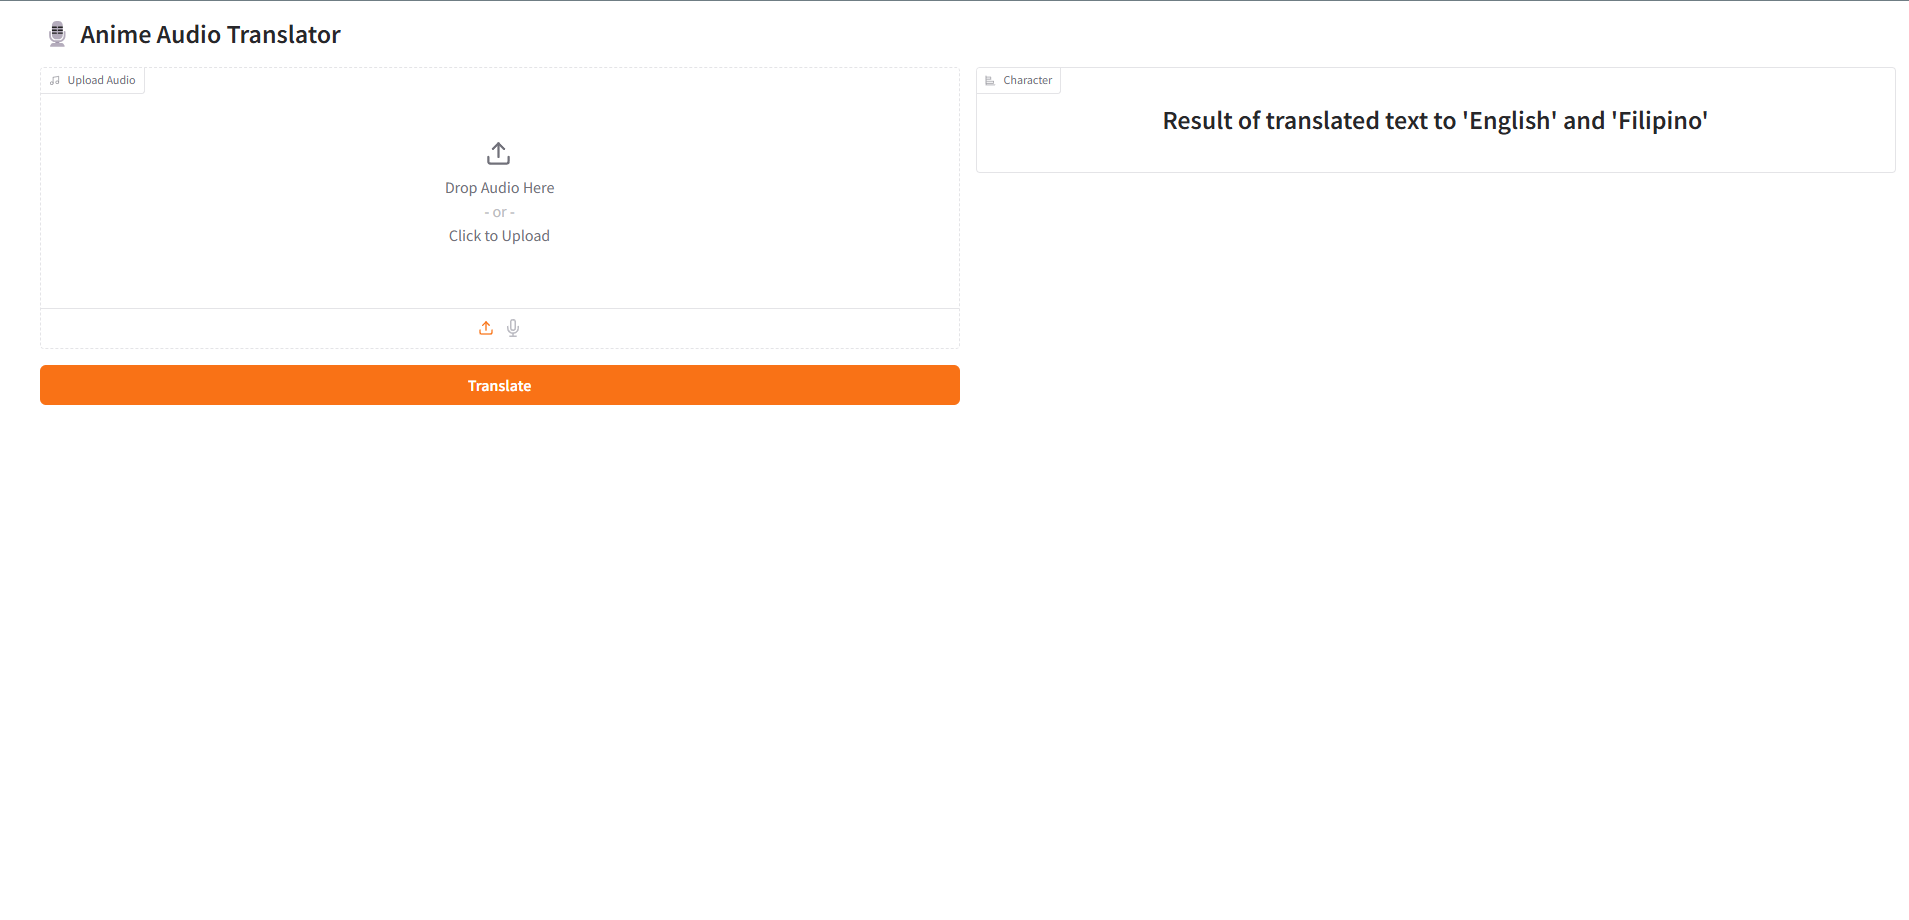
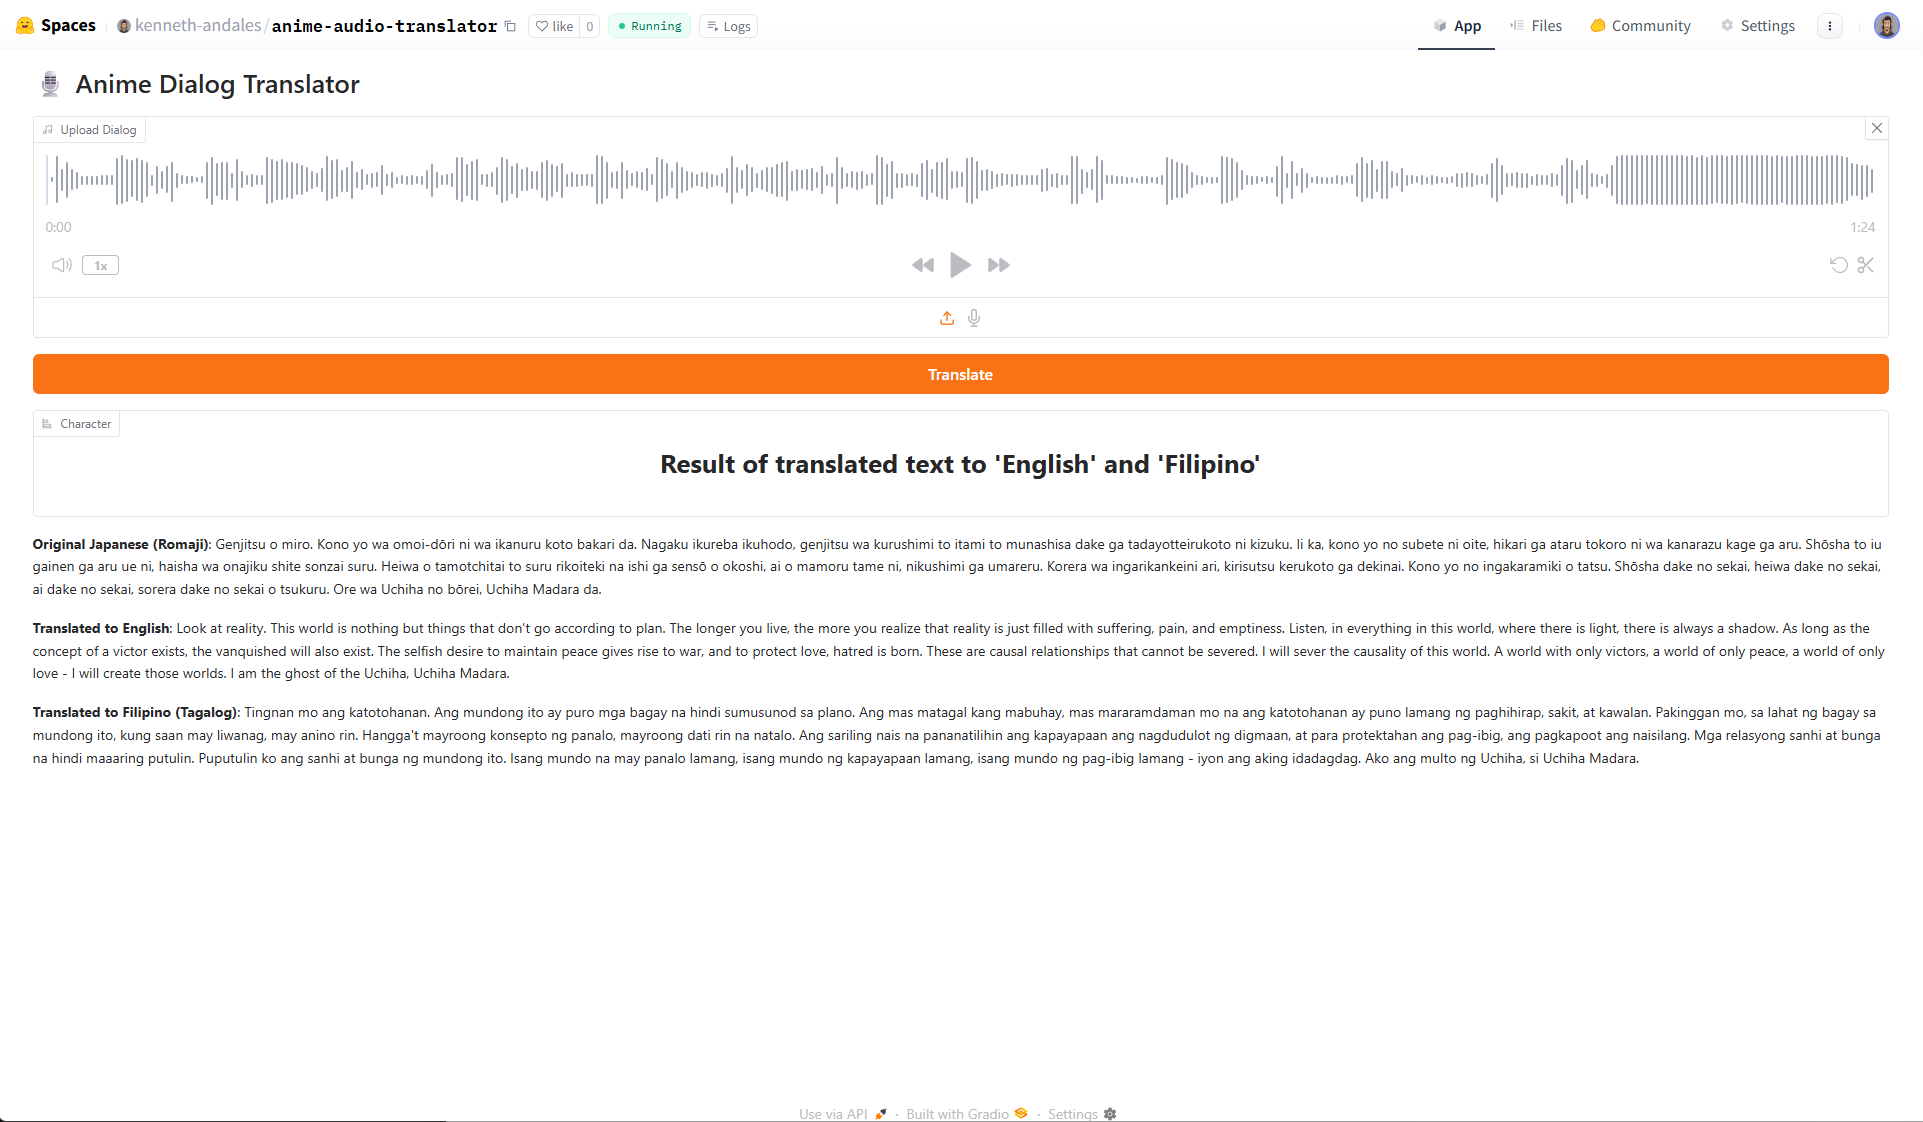
feat(project and skills): added projects and skills and some minor adjustment

diff --git a/src/constant/skills.ts b/src/constant/skills.ts
@@ -31,8 +31,8 @@ const SKILLS: Skill[] = [
             },
             {
                 name: "Typescript",
-                level: 8,
-                proficiency: "expert",
+                level: 7,
+                proficiency: "intermediate",
                 icon: `${BASE_URL}/icons/typescript.svg`,
             },
             {
@@ -55,8 +55,8 @@ const SKILLS: Skill[] = [
             },
             {
                 name: "Bootstrap",
-                level: 8,
-                proficiency: "expert",
+                level: 7,
+                proficiency: "intermediate",
                 icon: `${BASE_URL}/icons/bootstrap.svg`,
             },
         ],
@@ -67,13 +67,13 @@ const SKILLS: Skill[] = [
             {
                 name: "Node JS",
                 level: 7,
-                proficiency: "expert",
+                proficiency: "intermediate",
                 icon: `${BASE_URL}/icons/nodejs.svg`,
             },
             {
                 name: "Express JS",
                 level: 7,
-                proficiency: "expert",
+                proficiency: "intermediate",
                 icon: `${BASE_URL}/icons/expressjs.svg`,
             },
             {
@@ -131,8 +131,8 @@ const SKILLS: Skill[] = [
         items: [
             {
                 name: "SQL Server",
-                level: 8,
-                proficiency: "expert",
+                level: 7,
+                proficiency: "intermediate",
                 icon: `${BASE_URL}/icons/sqlserver.svg`,
             },
             {
@@ -238,19 +238,49 @@ const SKILLS: Skill[] = [
         ],
     },
     {
-        name: "AI Integration",
+        name: "AI & LLM Development",
         items: [
             {
                 name: "OpenAI",
                 level: 5,
-                proficiency: "beginner",
+                proficiency: "intermediate",
                 icon: `${BASE_URL}/icons/openai.svg`,
             },
             {
                 name: "Anthropic",
-                level: 2,
+                level: 3,
                 proficiency: "beginner",
                 icon: `${BASE_URL}/icons/anthropic.svg`,
+            },
+            {
+                name: "CrewAI",
+                level: 3,
+                proficiency: "beginner",
+                icon: `${BASE_URL}/icons/crewai.svg`,
+            },
+            {
+                name: "LangChain",
+                level: 3,
+                proficiency: "beginner",
+                icon: `${BASE_URL}/icons/lang-chain.svg`,
+            },
+            {
+                name: "LangGraph",
+                level: 3,
+                proficiency: "beginner",
+                icon: `${BASE_URL}/icons/lang-graph.svg`,
+            },
+            // {
+            //     name: "AutoGen",
+            //     level: 3,
+            //     proficiency: "beginner",
+            //     icon: `${BASE_URL}/icons/auto-gen.svg`, // you can add or create an icon
+            // },
+            {
+                name: "MCP",
+                level: 3,
+                proficiency: "beginner",
+                icon: `${BASE_URL}/icons/mcp.svg`, // you can add or create an icon
             },
         ],
     },

diff --git a/src/constant/certificates.ts b/src/constant/certificates.ts
@@ -27,6 +27,16 @@ const CERTIFICATES: Certificate[] = [
     },
     {
         courseLink:
+            "https://www.udemy.com/share/10dgIV3@3PRRW6hZhNZus-WqMJ7klaYzQ9JrqFTfSFMdJ8Lcsuf7x7MZZLXElzSgY4pgXSsuJQ==",
+        name: "AI Agents & Autonomous Apps with LangGraph & LangChain",
+        platform: "Udemy",
+        dateCompleted: "ongoing",
+        description:
+            "Learn how to create powerful AI agents and design multi-agent autonomous workflows using &lt;strong&gt;LangGraph&lt;/strong&gt; and &lt;strong&gt;LangChain&lt;/strong&gt;. Build real-world applications that automate complex tasks and enable intelligent decision-making with cutting-edge &lt;strong&gt;AI frameworks&lt;/strong&gt;.",
+        platformLogo: `${BASE_URL}/images/certificates/udemy-logo.png`,
+    },
+    {
+        courseLink:
             "https://www.udemy.com/share/104Tz63@7P1To3EQcAXMXxYDRpGYDQbhoUKPzgjok3XU6cJRKaSrO5RGltZ_dGX2tAKtAv5UCw==",
         name: "DevOps",
         platform: "Udemy",
@@ -38,15 +48,26 @@ const CERTIFICATES: Certificate[] = [
             "https://www.udemy.com/certificate/UC-0f82967f-c0f2-4abf-a24b-7486388a0d21/",
         certificateImage: `${BASE_URL}/images/certificates/devops-certificate.jpg`,
     },
-    // {
-    //     courseLink: "https://www.natcco.coop",
-    //     name: "Mid-Software Developer",
-    //     platform: "NATCCO",
-    //     dateCompleted: new Date("2025-03-25"),
-    //     description:
-    //         "NATCCO (National Confederation of Cooperatives) – the largest federation of cooperatives in the Philippines, providing training, financial services, and digital tools to empower community-based organizations",
-    //     platformLogo: `${BASE_URL}/images/companies/natcco-logo.svg`,
-    // },
+    {
+        courseLink:
+            "https://www.udemy.com/share/104coM3@xjybR_4oh_OZZY-lNCA-qu-ewROtCKizj60DXcb9NcOc8-lswhFP4w2FGQeh_5NEjw==",
+        name: "Next JS 15",
+        platform: "Udemy",
+        dateCompleted: "ongoing",
+        description:
+            "Completed a comprehensive Next.js 15 course covering full-stack React development using the App Router. Gained hands-on experience with React Server Components, data fetching, file-based routing, server actions, and authentication. Explored both App Router and Pages Router approaches, and built real-world projects to reinforce learning.",
+        platformLogo: `${BASE_URL}/images/certificates/udemy-logo.png`,
+    },
+    {
+        courseLink:
+            "https://www.udemy.com/share/1013ja3@oS043JFY0UNL77HWc8_rGbaD2kvGKWfUbI-lhoJMmag0RyTNm8TvvgtboAGX66L3kQ==",
+        name: "Data Structures + Algorithms",
+        platform: "Udemy",
+        dateCompleted: "ongoing",
+        description:
+            "This comprehensive program teaches essential algorithms, data structures, and problem-solving techniques used in professional software development, covering core concepts including sorting algorithms, trees, graphs, and hash tables with emphasis on practical implementation and performance optimization.",
+        platformLogo: `${BASE_URL}/images/certificates/udemy-logo.png`,
+    },
 ];
 
 export default CERTIFICATES;

diff --git a/src/constant/projects.ts b/src/constant/projects.ts
@@ -142,6 +142,23 @@ const PROJECTS: Record<ProjectName, Project> = {
         screenshot: `${BASE_URL}/pdf/LARAVEL_ECOMMERCE_DASHBOARD.pdf`,
         type: "freelance",
     },
+    resume_match_ai: {
+        category: "backend",
+        title: "Resume Match App",
+        thumbnailLink: `${BASE_URL}/images/projects/resume-match-ai.png`,
+        description:
+            "Resume Match AI is a multi-agent app that analyzes your resume, finds relevant job listings, scores compatibility, and suggests improvements—all powered by CrewAI.",
+        technologies: [
+            getSkillByName("python", backend),
+            getSkillByName("anthropic", ai_integration),
+            getSkillByName("crewai", ai_integration),
+        ],
+        githubRepo: "https://github.com/ken-027/resume-match-ai",
+        liveDemo:
+            "https://resume-match-ai-599528b1-cf57-446a-8922-4b5-ec219a74.crewai.com/inputs",
+        type: "personal",
+        aiPowered: true,
+    },
     ai_deep_research: {
         category: "fullstack",
         title: "AI Deep Research",
@@ -426,9 +443,15 @@ const PROJECTS: Record<ProjectName, Project> = {
         title: "Anime Audio Translator",
         thumbnailLink: `${BASE_URL}/images/projects/anime-audio-translator.png`,
         description:
-            "Translate Japanese anime audio into English and Filipino (Tagalog) using Gradio, OpenAI and HuggingFace open-source models running on google colab.",
-        technologies: [getSkillByName("python", backend)],
+            "This project leverages the power of Gradio to create a user-friendly interface, OpenAI's Whisper for accurate speech-to-text transcription, and Anthropic's Claude model for high-quality multilingual translation.",
+        technologies: [
+            getSkillByName("python", backend),
+            getSkillByName("openai", ai_integration),
+            getSkillByName("anthropic", ai_integration),
+        ],
         githubRepo: "https://github.com/ken-027/anime-dialog-translator",
+        liveDemo:
+            "https://huggingface.co/spaces/kenneth-andales/anime-audio-translator",
         type: "personal",
         aiPowered: true,
     },

diff --git a/src/constant/experiences.ts b/src/constant/experiences.ts
@@ -17,6 +17,7 @@ const EXPERIENCES: Experience[] = [
         ],
         companyLogo: `${BASE_URL}/images/companies/natcco-logo.svg`,
         projects: [PROJECTS.casa, PROJECTS.casa_api, PROJECTS.fixed_asset],
+        companyLink: "https://natcco.coop",
     },
     {
         title: "Freelance Web Developer",
@@ -52,6 +53,7 @@ const EXPERIENCES: Experience[] = [
         ],
         companyLogo: `${BASE_URL}/images/companies/cloud-panda-ph-logo.svg`,
         projects: [PROJECTS.mta, PROJECTS.llda],
+        companyLink: "https://www.cloudpanda.ph",
     },
     {
         title: "Jr. Web Developer",
@@ -66,6 +68,7 @@ const EXPERIENCES: Experience[] = [
         ],
         companyLogo: `${BASE_URL}/images/companies/ipp-logo.svg`,
         projects: [PROJECTS.csrm, PROJECTS.csrm_api, PROJECTS.ema],
+        companyLink: "https://intl-payments.com",
     },
 ];
 

diff --git a/src/types/index.d.ts b/src/types/index.d.ts
@@ -37,6 +37,7 @@ export interface Experience {
     descriptions: string[];
     companyLogo?: string;
     projects?: Project[];
+    companyLink?: string;
 }
 
 export type Category = "fullstack" | "frontend" | "backend";
@@ -86,7 +87,8 @@ export type ProjectName =
     | "portfolio_api"
     | "portfolio_terminal"
     | "gradio_portfolio_chatbot"
-    | "ai_deep_research";
+    | "ai_deep_research"
+    | "resume_match_ai";
 
 export interface Service {
     title: string;
